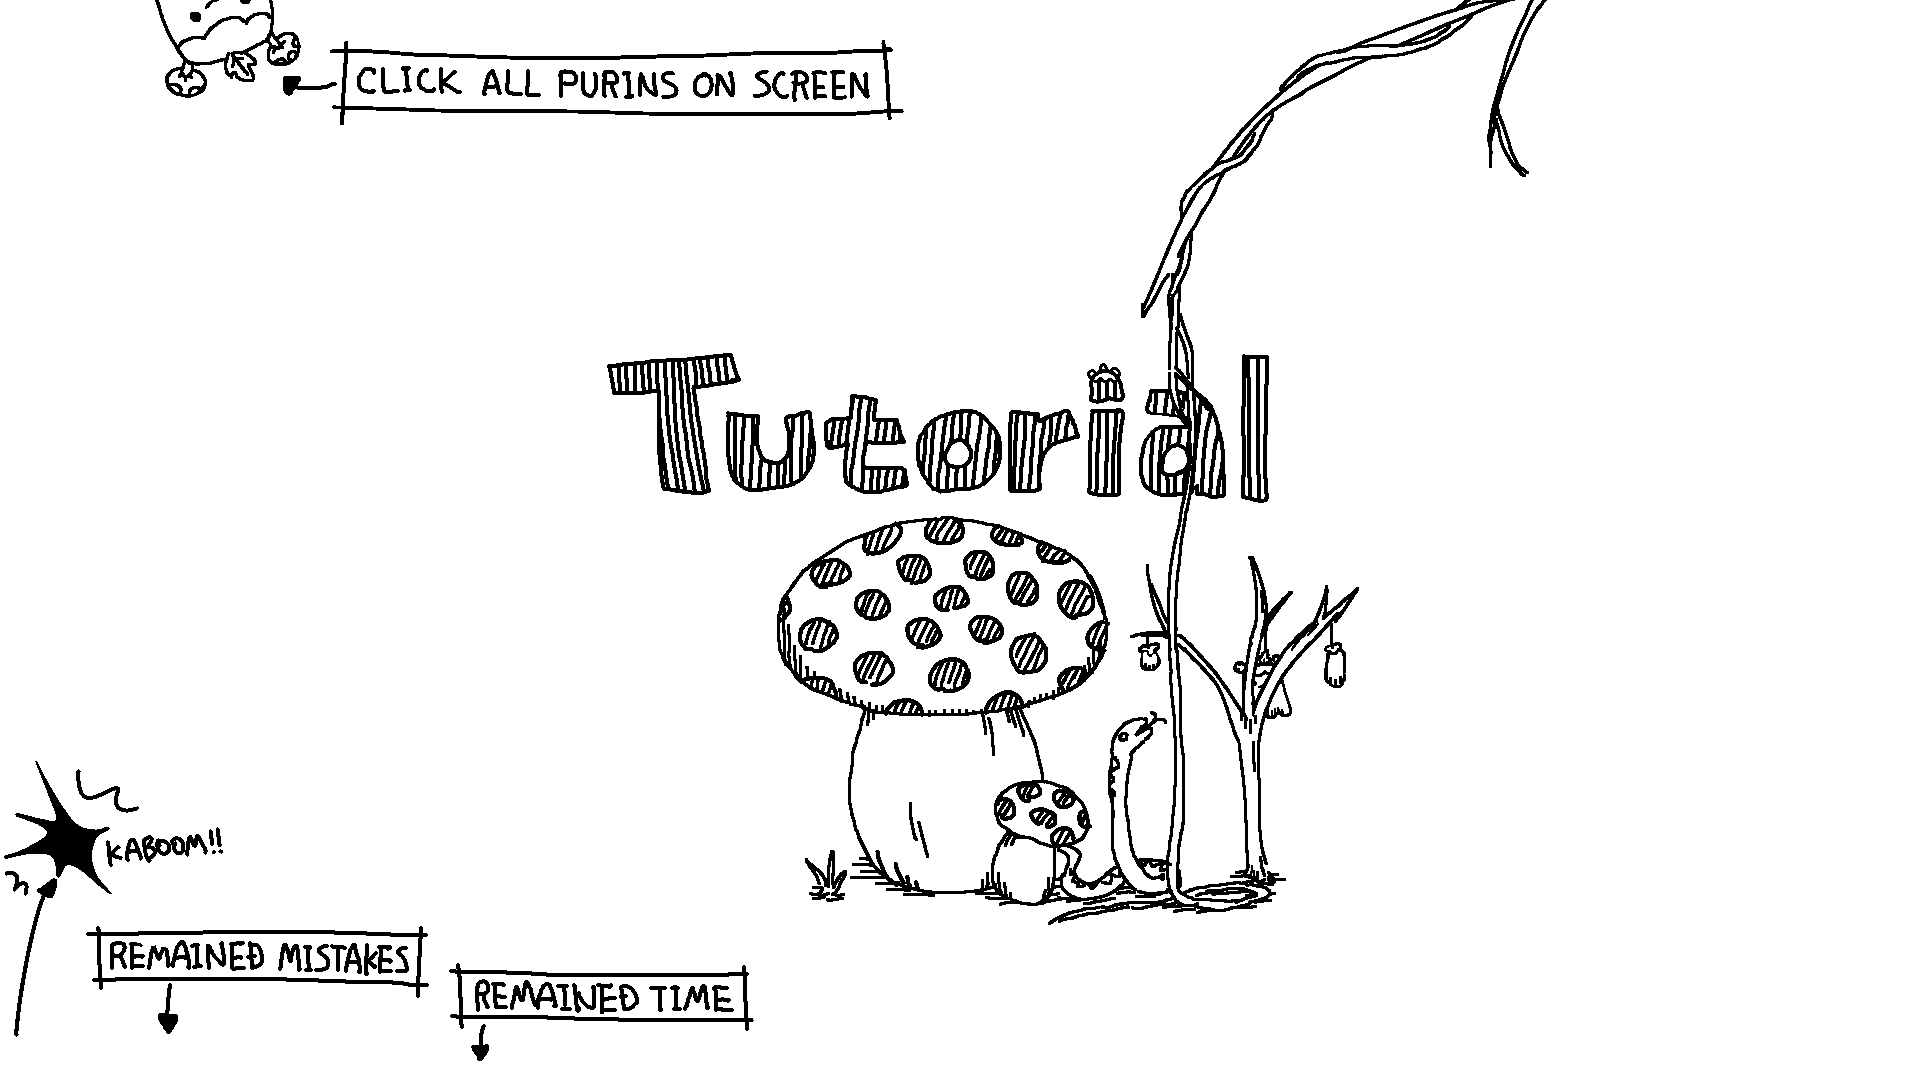
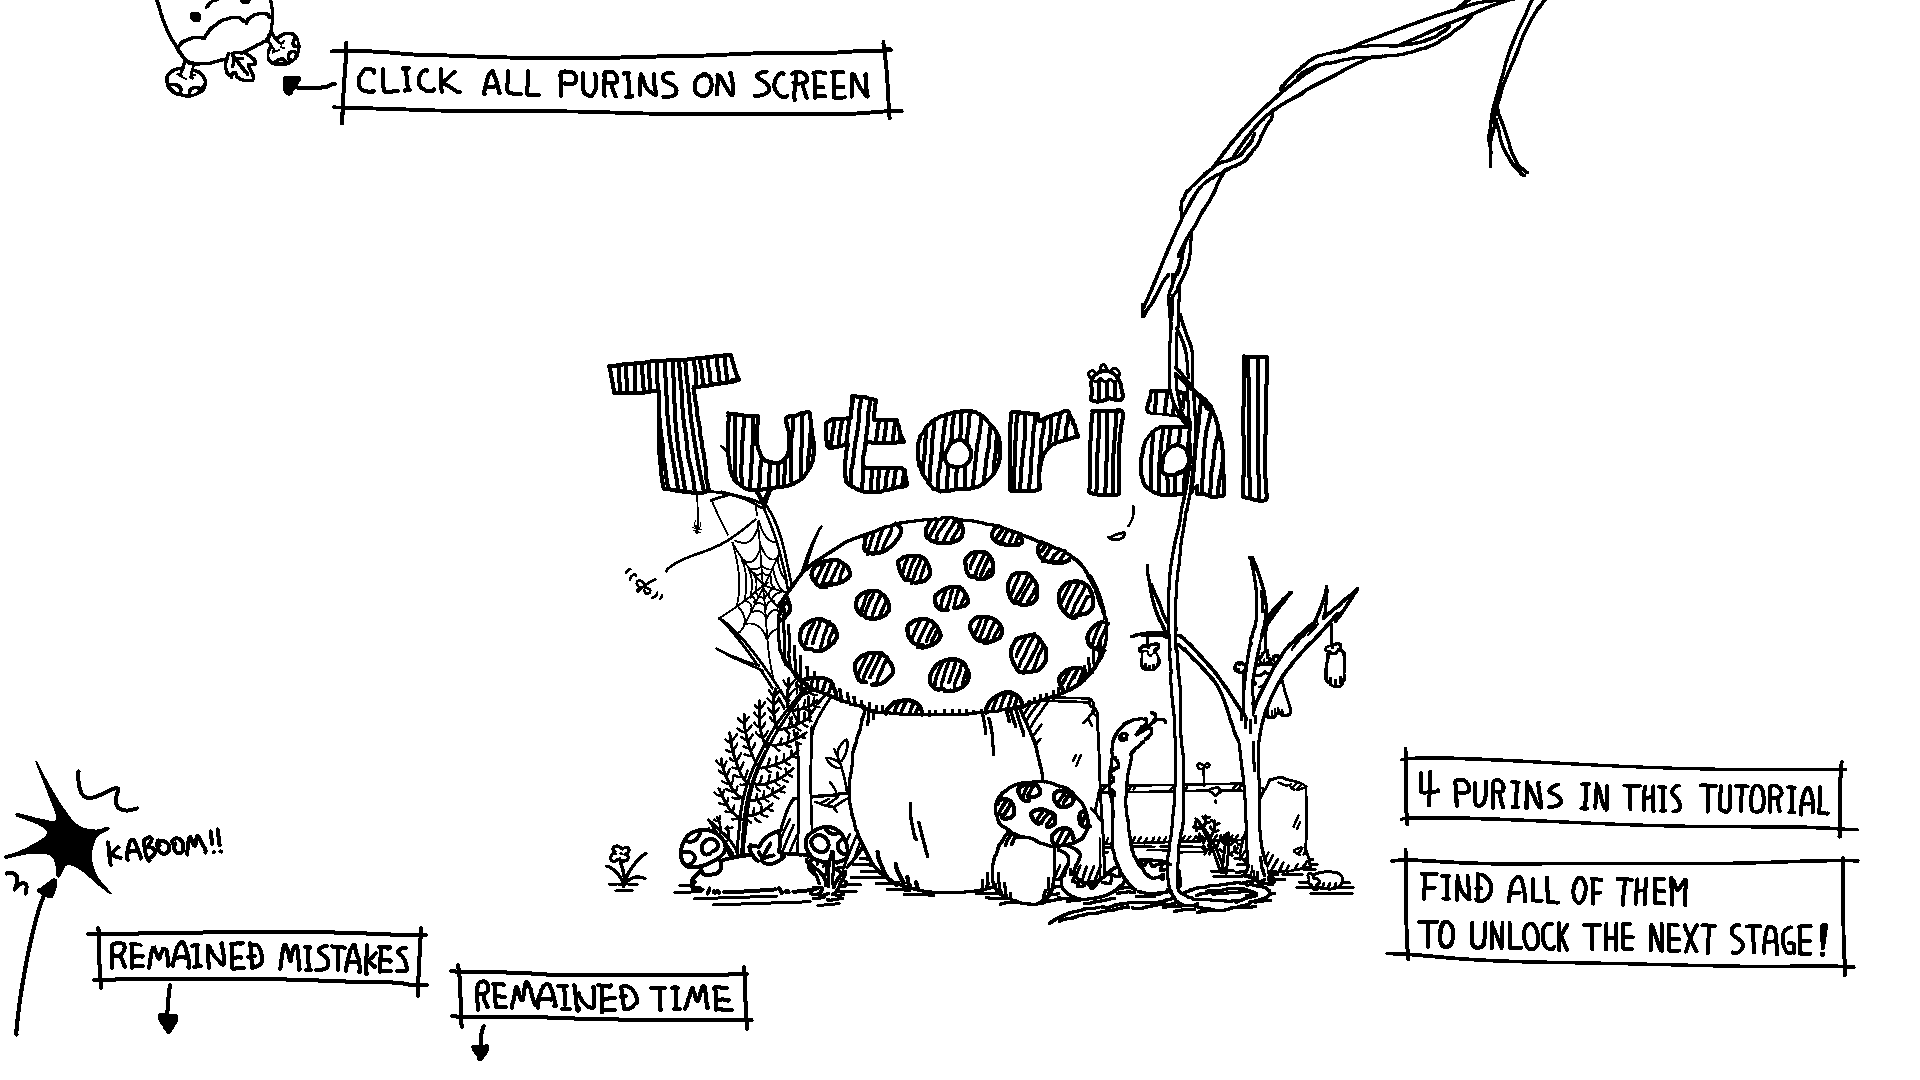
Update tutorial

diff --git a/src/stages/stage0.ts b/src/stages/stage0.ts
@@ -40,5 +40,25 @@ export default {
       [1126, 402],
       [1087, 403],
     ]),
+    new Polygon([
+      [688, 890],
+      [689, 873],
+      [676, 858],
+      [683, 832],
+      [709, 825],
+      [727, 838],
+      [756, 840],
+      [778, 825],
+      [788, 840],
+      [798, 841],
+      [813, 826],
+      [838, 825],
+      [851, 848],
+      [845, 865],
+      [853, 881],
+      [818, 897],
+      [752, 897],
+      [709, 896],
+    ]),
   ],
 }
